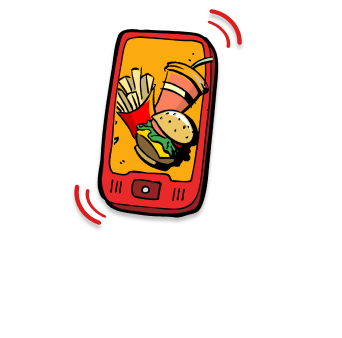
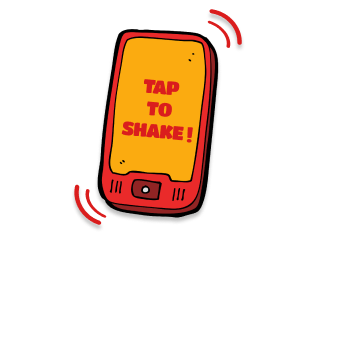
onboarding page done

Changed region(s): [[0.2059, 0.0296, 0.7353, 0.6805]]

diff --git a/lib/ui/views/home/home_view.dart b/lib/ui/views/home/home_view.dart
@@ -19,16 +19,31 @@ class HomeView extends StackedView<HomeViewModel> {
           Center(
             child: Column(
               children: [
-                Image.asset("assets/Shake it - Logo.png"),
-                const Text(
-                  'Choose your meal preference base on the categories:',
-                  textAlign: TextAlign.center,
-                  style: TextStyle(
-                    color: Color(0xFFFBAB10),
-                    fontSize: 20,
-                    fontWeight: FontWeight.w700,
+                Stack(children: [
+                  Center(
+                    child: GestureDetector(
+                        onTap: viewModel.navigateToShaking,
+                        child: SizedBox(
+                          height: 250,
+                          child: Image.asset(
+                            'assets/shake.png',
+                            fit: BoxFit.fitWidth,
+                          ),
+                        )),
                   ),
-                ),
+                  const Padding(
+                    padding: EdgeInsets.only(top:200.0),
+                    child: Text(
+                      'Choose your meal preference base on the categories:',
+                      textAlign: TextAlign.center,
+                      style: TextStyle(
+                        color: Color(0xFFFBAB10),
+                        fontSize: 20,
+                        fontWeight: FontWeight.w700,
+                      ),
+                    ),
+                  ),
+                ]),
                 const SizedBox(height: 9.0),
                 GestureDetector(
                     onTap: viewModel.showPriceRange,
@@ -39,14 +54,6 @@ class HomeView extends StackedView<HomeViewModel> {
                 GestureDetector(
                     onTap: viewModel.showDistanceRange,
                     child: const SelectionButton(title: 'Distance')),
-                Padding(
-                  padding: const EdgeInsets.symmetric(vertical: 10.0),
-                  child: SizedBox(
-                      height: 250,
-                      child: GestureDetector(
-                          onTap: viewModel.navigateToShaking,
-                          child: Image.asset('assets/shake.png'))),
-                )
               ],
             ),
           ),
